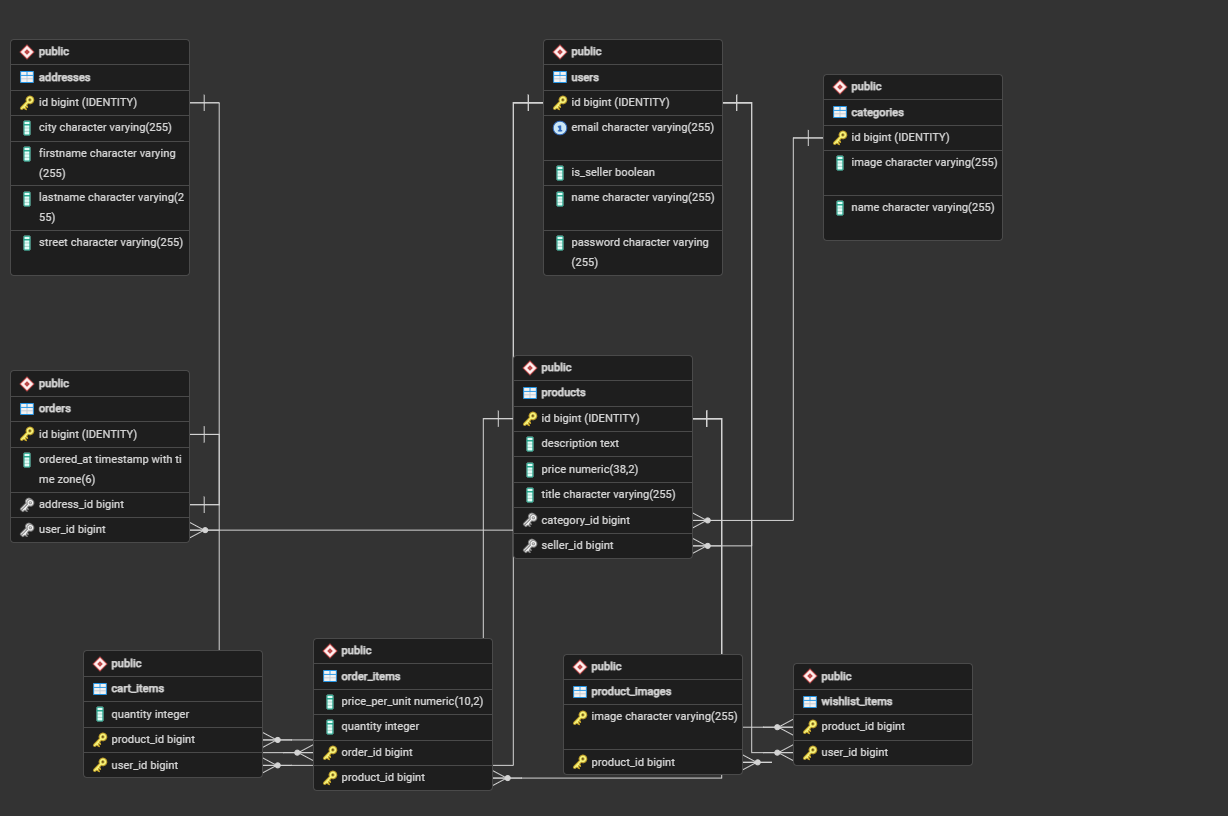
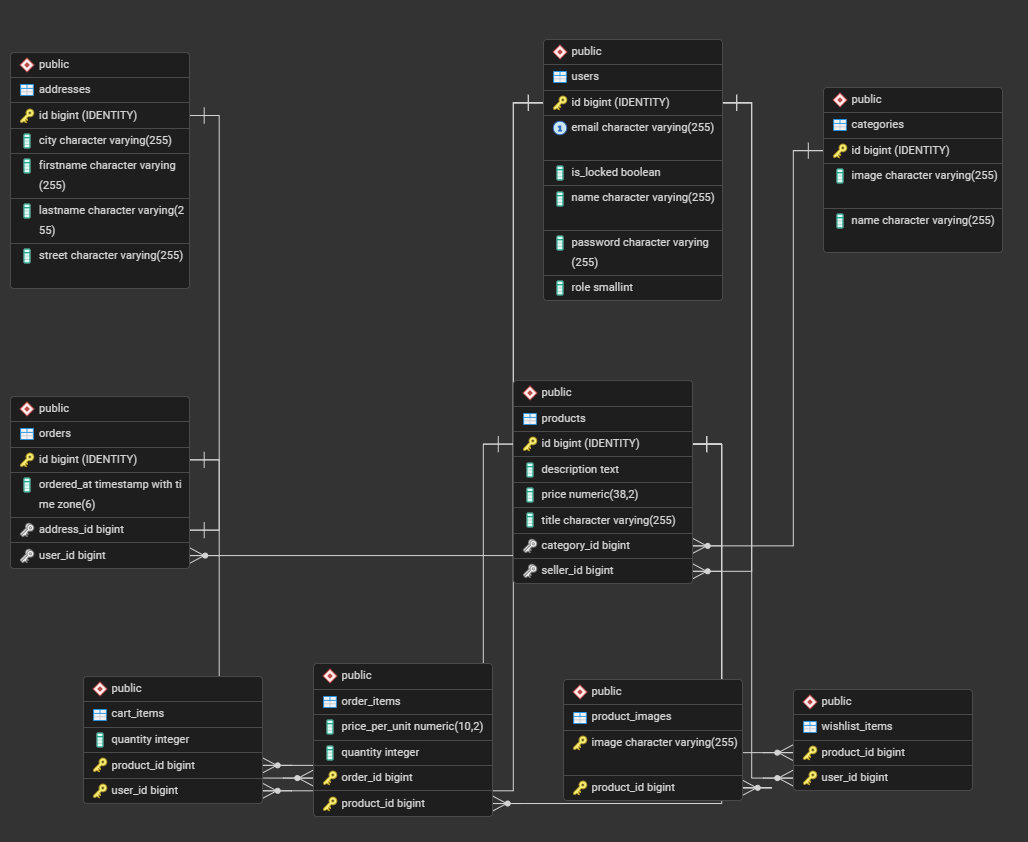
Update swagger and erd images in README.md

diff --git a/README.md b/README.md
@@ -8,7 +8,8 @@ This document lists all the features available in the ShopSphere E-Commerce web 
 
 ## Backend API
 
-![backend API](docs/Swagger.png)
+![backend API](docs/swagger-1.png)
+![backend API](docs/swagger-2.png)
 
 ## Frontend Actions
 
